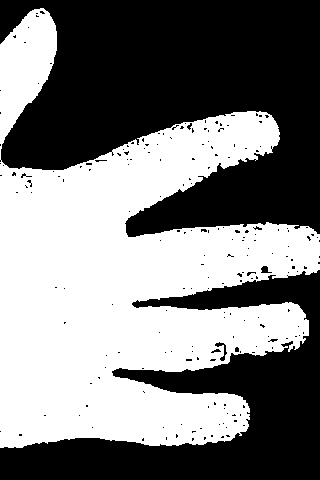
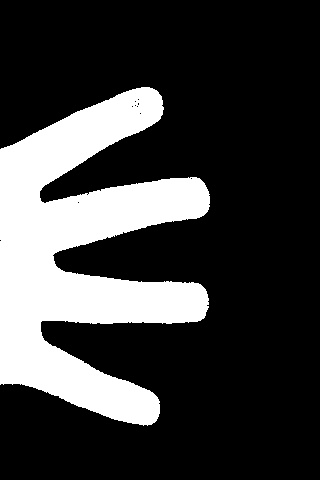
added keypoint extractions

diff --git a/cplusplus_palmPrintAuthentication/PalmPrintAuthentication/PalmPrintAuthentication/RoiExtraction.cpp b/cplusplus_palmPrintAuthentication/PalmPrintAuthentication/PalmPrintAuthentication/RoiExtraction.cpp
@@ -2,15 +2,22 @@
 #include "Histogram.h"
 #include "PixelValueTreshold.h"
 #include "RegionSegmentation.h"
+#include "MorphologicalOperation.h"
 #include <iostream>
 #include <vector>
 #include <queue>
 #include <chrono>
 #include <ctime>
+#include <math.h>
+#include <algorithm>
 
 using namespace std;
 using namespace cv;
 
+struct point_with_distance{
+	Point p;
+	double d;
+};
 RoiExtraction::RoiExtraction(Mat inputImage) : inputImage(inputImage)
 {
 	char* sourceWindow = "Source";
@@ -29,10 +36,8 @@ RoiExtraction::RoiExtraction(Mat inputImage) : inputImage(inputImage)
 	vector<Mat> ycbcr_planes;
 	split(inputImageYCbCr, ycbcr_planes);
 
-	namedWindow("Before Treshold image", CV_WINDOW_AUTOSIZE);
-	imshow("Before Treshold image", inputImageYCbCr);
-	cout << "cols: " << inputImage.cols << endl;
-	//Rect rightSideRoi(0, inputImage.cols / 2, inputImage.cols/2, inputImage.rows);
+
+	// CROP THE RIGHT SIDE OF THE IMAGE
 	Rect rightSideRoi(inputImage.cols / 2, 0, inputImage.cols / 2, inputImage.rows);
 	Mat rightSide = inputImageYCbCr(rightSideRoi);
 	
@@ -40,6 +45,8 @@ RoiExtraction::RoiExtraction(Mat inputImage) : inputImage(inputImage)
 	chrono::time_point<chrono::system_clock> start, end;
 	start = chrono::system_clock::now();
 
+
+	// APPLY REGION GROWING ALGORITHM
 	Mat output = RegionSegmentation::applyRegionGrowingAlgorithm(rightSide);
 	end = chrono::system_clock::now();
 	chrono::duration<double> elapsed_seconds = end - start;
@@ -47,33 +54,23 @@ RoiExtraction::RoiExtraction(Mat inputImage) : inputImage(inputImage)
 	cout << "Finished in: " << elapsed_seconds.count() << " seconds";
 
 	// EXPERIMENTING WITH DIFFERENT APPROACHES - THIS WILL BE ARRANGED LATER
-	// eroding
-	Mat dst;
-	int erosion_size = 2;
-	Mat element = getStructuringElement(cv::MORPH_CROSS,
-		cv::Size(2 * erosion_size + 1, 2 * erosion_size + 1),
-		cv::Point(erosion_size, erosion_size));
-
-	dilate(output, dst, element);
 	
-	namedWindow("After region growing", CV_WINDOW_AUTOSIZE);
-	imshow("After region growing", output);
+	
+	// APPLY DILATION 
+	output = MorphologicalOperation::dilate(output);
+	namedWindow("After region growing and dilation", CV_WINDOW_AUTOSIZE);
+	imshow("After region growing and dilation", output);
 
-	imwrite("beforeErosion.jpg", output);
-	namedWindow("After erosion", CV_WINDOW_AUTOSIZE);
-	imshow("After erosion", dst);
-
-
-	// find contours
+	// FIND CONTOURS BY APPLYING CANNY 
 
 	Mat canny_output;
 	vector<vector<Point> > contours;
 	vector<Vec4i> hierarchy;
 	RNG rng(12345);
 	/// Detect edges using canny
-	Canny(dst, canny_output, 100, 100 * 2, 3);
+	Canny(output, canny_output, 100, 100 * 2, 3);
 	/// Find contours
-	findContours(canny_output, contours, hierarchy, CV_RETR_TREE, CV_CHAIN_APPROX_SIMPLE, Point(0, 0));
+	findContours(canny_output, contours, hierarchy, CV_RETR_EXTERNAL, CV_CHAIN_APPROX_NONE, Point(0, 0));
 
 	/// Draw contours
 	Mat drawing = Mat::zeros(canny_output.size(), CV_8UC3);
@@ -82,6 +79,75 @@ RoiExtraction::RoiExtraction(Mat inputImage) : inputImage(inputImage)
 		Scalar color = Scalar(rng.uniform(0, 255), rng.uniform(0, 255), rng.uniform(0, 255));
 		drawContours(drawing, contours, i, color, 2, 8, hierarchy, 0, Point());
 	}
+	// get first top / bottom non-zero point
+	Point top, bottom;
+
+	bool foundUpper = false;
+	for (int i = 0; i < output.rows; ++i){
+		if (foundUpper){
+			if (output.at<uchar>(i, 0) == 0){
+				top.x = 0;
+				top.y = i;
+				break;
+			}
+		}
+		else{
+			if (output.at<uchar>(i, 0) == 255){
+				foundUpper = true;
+				bottom.x = 0;
+				bottom.y = i;
+			}
+		}
+		
+	}
+
+	cout << endl << top.x << " " << top.y << endl << bottom.x << " " << bottom.y << endl;
+	Point centerPoint(inputImage.cols / 2, (top.y + bottom.y) / 2);
+	circle(inputImage, centerPoint, 2, CV_RGB(0, 255, 0), -1);
+
+	vector<point_with_distance> distances;
+
+	
+	for (int i = 0; i < contours.size(); ++i){
+		for (int j = 0; j < contours[i].size(); ++j){
+			//cout << contours[i][j].x << " " << contours[i][j].y << endl;
+			point_with_distance p;
+			p.p.x = contours[i][j].x + inputImage.cols/2;
+			p.p.y = contours[i][j].y;
+			p.d = sqrt(pow(centerPoint.x - p.p.x, 2) + pow(centerPoint.y - p.p.y, 2));
+			distances.push_back(p);
+		}
+		
+	}
+	
+	//sort(distances.begin(), distances.end(), [](const point_with_distance &a, const point_with_distance &b){ return a.d < b.d;  });
+
+	
+
+	auto it = distances.begin();
+	for (auto it = distances.begin() + 1; it < distances.end() - 1; ++it){
+		if (it->d < (it - 1)->d && it->d < (it + 1)->d){
+			circle(inputImage, it->p, 2, CV_RGB(0, 255, 0), -1);
+		}
+	}
+
+	
+	Mat distanceGraph(Size(distances.size(), 400),CV_8U,Scalar(0,0,0));
+	namedWindow("Distance Graph", CV_WINDOW_AUTOSIZE);
+	cout << "Number of contours: " << contours.size() << endl;
+	for (int i = 0;i<distances.size();++i){
+		circle(distanceGraph, Point(i,distances.at(i).d), 2, CV_RGB(255, 255, 255), -1);
+		//circle(distanceGraph, Point(distances.at(i).p), 2, CV_RGB(255, 255, 255), -1);
+		//
+		//waitKey(33);
+	}
+	imshow("Distance Graph", distanceGraph);
+	
+	
+
+	namedWindow("Original Image", CV_WINDOW_AUTOSIZE);
+	imshow("Original Image", inputImage);
+
 
 	/// Show in a window
 	namedWindow("Contours", CV_WINDOW_AUTOSIZE);

diff --git a/cplusplus_palmPrintAuthentication/PalmPrintAuthentication/PalmPrintAuthentication/RegionSegmentation.cpp b/cplusplus_palmPrintAuthentication/PalmPrintAuthentication/PalmPrintAuthentication/RegionSegmentation.cpp
@@ -7,31 +7,6 @@
 
 using namespace std;
 
-void RegionSegmentation::applyRegionGrowingAlgorithmEucDistance(Mat img){
-	Size imgSize = img.size();
-	int width = imgSize.width;
-	int height = imgSize.height;
-
-	float avgDistance;
-
-	for (int i = width / 2 - 10; i < width / 2 + 10; i++){
-		for (int j = height / 2 - 10; j < height / 2 + 10; ++j){
-			Scalar v1(
-				img.at<Vec3b>(i, j)[0],
-				img.at<Vec3b>(i, j)[1],
-				img.at<Vec3b>(i, j)[2]);
-
-			Scalar v2(
-				img.at<Vec3b>(i+1, j+1)[0],
-				img.at<Vec3b>(i+1, j+1)[1],
-				img.at<Vec3b>(i+1, j+1)[2]);
-			
-			float dist = sqrt((v1.val[0] - v2.val[0]) * (v1.val[0] - v2.val[0]) + (v1.val[1] - v2.val[1]) * (v1.val[1] - v2.val[1]) + (v1.val[2] - v2.val[2]) * (v1.val[2] - v2.val[2]));
-			
-			
-		}
-	}
-}
 
 Mat RegionSegmentation::applyRegionGrowingAlgorithm(Mat img){
 
@@ -57,7 +32,7 @@ Mat RegionSegmentation::applyRegionGrowingAlgorithm(Mat img){
 	}
 
 	// seed point
-	Point seedPoint(width / 2, height / 2);
+	Point seedPoint(0, height / 2);
 
 	// points which needs to be evaluated
 	queue<Point> processQueue;

diff --git a/cplusplus_palmPrintAuthentication/PalmPrintAuthentication/PalmPrintAuthentication/MorphologicalOperation.h b/cplusplus_palmPrintAuthentication/PalmPrintAuthentication/PalmPrintAuthentication/MorphologicalOperation.h
@@ -1,0 +1,24 @@
+#pragma once
+#include "opencv2/highgui/highgui.hpp"
+#include "opencv2/imgproc/imgproc.hpp"
+
+using namespace cv;
+/*Singleton class for morphological operations*/
+class MorphologicalOperation
+{
+private:
+	/*private constructor */
+	MorphologicalOperation(){	};
+	/*private copy constructor*/
+	MorphologicalOperation(MorphologicalOperation const&){};
+	/*private assignment operator*/
+	MorphologicalOperation& operator = (MorphologicalOperation const&){};
+
+public:
+	/*Applies dilate algorithm to @img */
+	static Mat dilate(const Mat &img);
+
+	/*Applies erode algorithm to @img */
+	static Mat erode(const Mat &img);
+};
+

diff --git a/cplusplus_palmPrintAuthentication/PalmPrintAuthentication/PalmPrintAuthentication/MorphologicalOperation.cpp b/cplusplus_palmPrintAuthentication/PalmPrintAuthentication/PalmPrintAuthentication/MorphologicalOperation.cpp
@@ -1,0 +1,22 @@
+#include "MorphologicalOperation.h"
+
+
+using namespace std;
+using namespace cv;
+
+Mat MorphologicalOperation::dilate(const Mat &img){
+	Mat dst;
+	int erosion_size = 2;
+	Mat element = getStructuringElement(cv::MORPH_CROSS,
+		cv::Size(2 * erosion_size + 1, 2 * erosion_size + 1),
+		cv::Point(erosion_size, erosion_size));
+
+	::dilate(img, dst, element);
+
+	return dst;
+}
+
+Mat MorphologicalOperation::erode(const Mat &img){
+	// TODO: implement later
+	return img;
+}

diff --git a/cplusplus_palmPrintAuthentication/PalmPrintAuthentication/PalmPrintAuthentication/main.cpp b/cplusplus_palmPrintAuthentication/PalmPrintAuthentication/PalmPrintAuthentication/main.cpp
@@ -10,7 +10,8 @@ using namespace cv;
 int main(int argc, char *argv[]){
 
 	// reading sample palmprint image
-	Mat image = imread("sample_images/sample_picture_2015-10-21_12-22-29.jpg");
+	Mat image = imread("sample_images/20151112_173809.jpg");
+	resize(image, image, Size(640, 480));
 
 	RoiExtraction roiExtraction(image);
 
